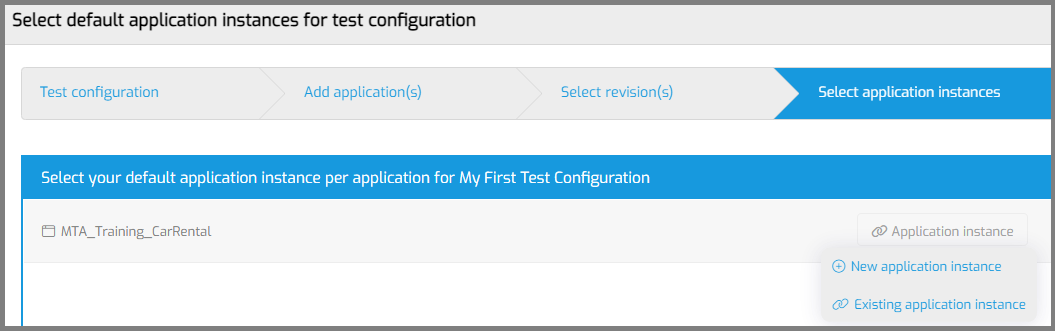
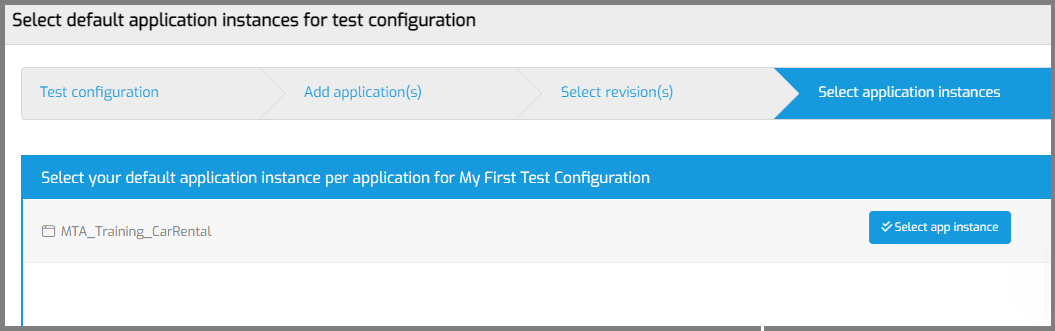
changed guides

Changed region(s): [[0.819, 0.6344, 0.9706, 0.7553], [0.7886, 0.9063, 0.9706, 0.9366], [0.7886, 0.7855, 0.9403, 0.8459]]

diff --git a/additional/01-howtos/backend-guide.md b/additional/01-howtos/backend-guide.md
@@ -17,9 +17,9 @@ To go through these steps, you need
 
 If you walk through these instructions, you will have 
 - registered one of your Mendix Apps in MTA, so you can test it,
-- selected an instance (environment) of this Mendix App where it is running,  
-- registered an existing Account on this instance to be tested with,
-- created a simple microflow (unit) test with an assert,
+- selected an [instance](../../mta/application-instance) (environment) of this [Mendix App](../../mta/application) where it is running,  
+- registered an existing [User](../../mta/execution-user) on this instance to be tested with,
+- created a simple [microflow](../../mta/mendix-microflow) (unit) test with an [Assert](../../mta/Assert),
 - executed and evaluated this test.
 
 The test will execute a single microflow and check that the return value is not empty.
@@ -75,16 +75,12 @@ MTA will show a message that it will start downloading this revision.
 
 ### Step 4
 
-The last step is selecting an application instance. Click 'Application instance'.
+The last step is selecting an application instance. Click 'Select app instance'.
 
 
 ![Add test configuration](images/run_first_test/06.png)
 
-
-- If you're running your Application under test on the Mendix Cloud, click 'Existing application instance'. You can select any of the application instances MTA has detected when you added the Application.
-- If you're running on another cloud provider, on premise, or on a local computer, click 'New application instance'. 
-
-After you have selected an Application instance, you will see the name and UID shown like this:
+After you have selected an Application instance, you will see this:
 
 
 ![Add test configuration](images/run_first_test/07.png)
@@ -127,18 +123,23 @@ The next step is adding a test suite.
 
 ### Add a Teststep
 Next you will choose a microflow to test.
-- Click '+ Microflow test'.
+- [Add a Microflow Teststep](../../mta/Teststep/microflow#add-a-microflow-teststep).
 - Choose a microflow with a String or Integer/Long return value.  
 - MTA will create a teststep for executing the microflow, and teststeps to fill the parameters of the microflow. <br/>Note: you have to create nonpersistable objects yourself. 
-- Click <i class="fal fa-ballot-check"></i> and then '+ Assert' to add an Assert.
+- [Add an Assert on Attribute Value](../../mta/Assert/assert-attribute#add-an-assert-on-attribute).
 - Change 'Assert' to "Not equals". This will check that the output is not empty.
 - Save.
 
 ## 5. Execute and evaluate your test
 
-Click '<i class="fas fa-play"></i> Execute test suite' to execute the test suite.
+Click 'Execute test suite' to execute the test suite.
 
 After executing:
 - Click on 'Details' to view your test results.
 - Click on 'Results' to view the test suite run results.
-- MTA will open the Test suite run results. This page looks familiar, but is not the same as the page where you configure your Test Suite. You can go back with the '<i class="fas fa-cog"></i> Configure test suite' button.
+- MTA will open the Test suite run results.
+
+## Feedback?
+Missing anything? [Let us know!](mailto:support@menditect.com)
+
+Last updated 18 March 2026

diff --git a/additional/01-howtos/frontend-guide.md b/additional/01-howtos/frontend-guide.md
@@ -50,4 +50,10 @@ The results of a Frontend test can be stored in a [Playwright Tracefile](../../m
 If a [Frontend test](../../mta/frontend-test) fails with a [Teststep Exception](../../mta/teststep-exception), the Playwright Tracefile may not be generated, because the Teststep that stores the Tracefile was not executed.
 
 To make sure that this Teststep will be executed, set the [Exception Handling](../../mta/Teststep#exception-handling) property to `Continue` on the preceding Teststeps.
-:::
+:::0
+
+
+## Feedback?
+Missing anything? [Let us know!](mailto:support@menditect.com)
+
+Last updated 18 March 2026
